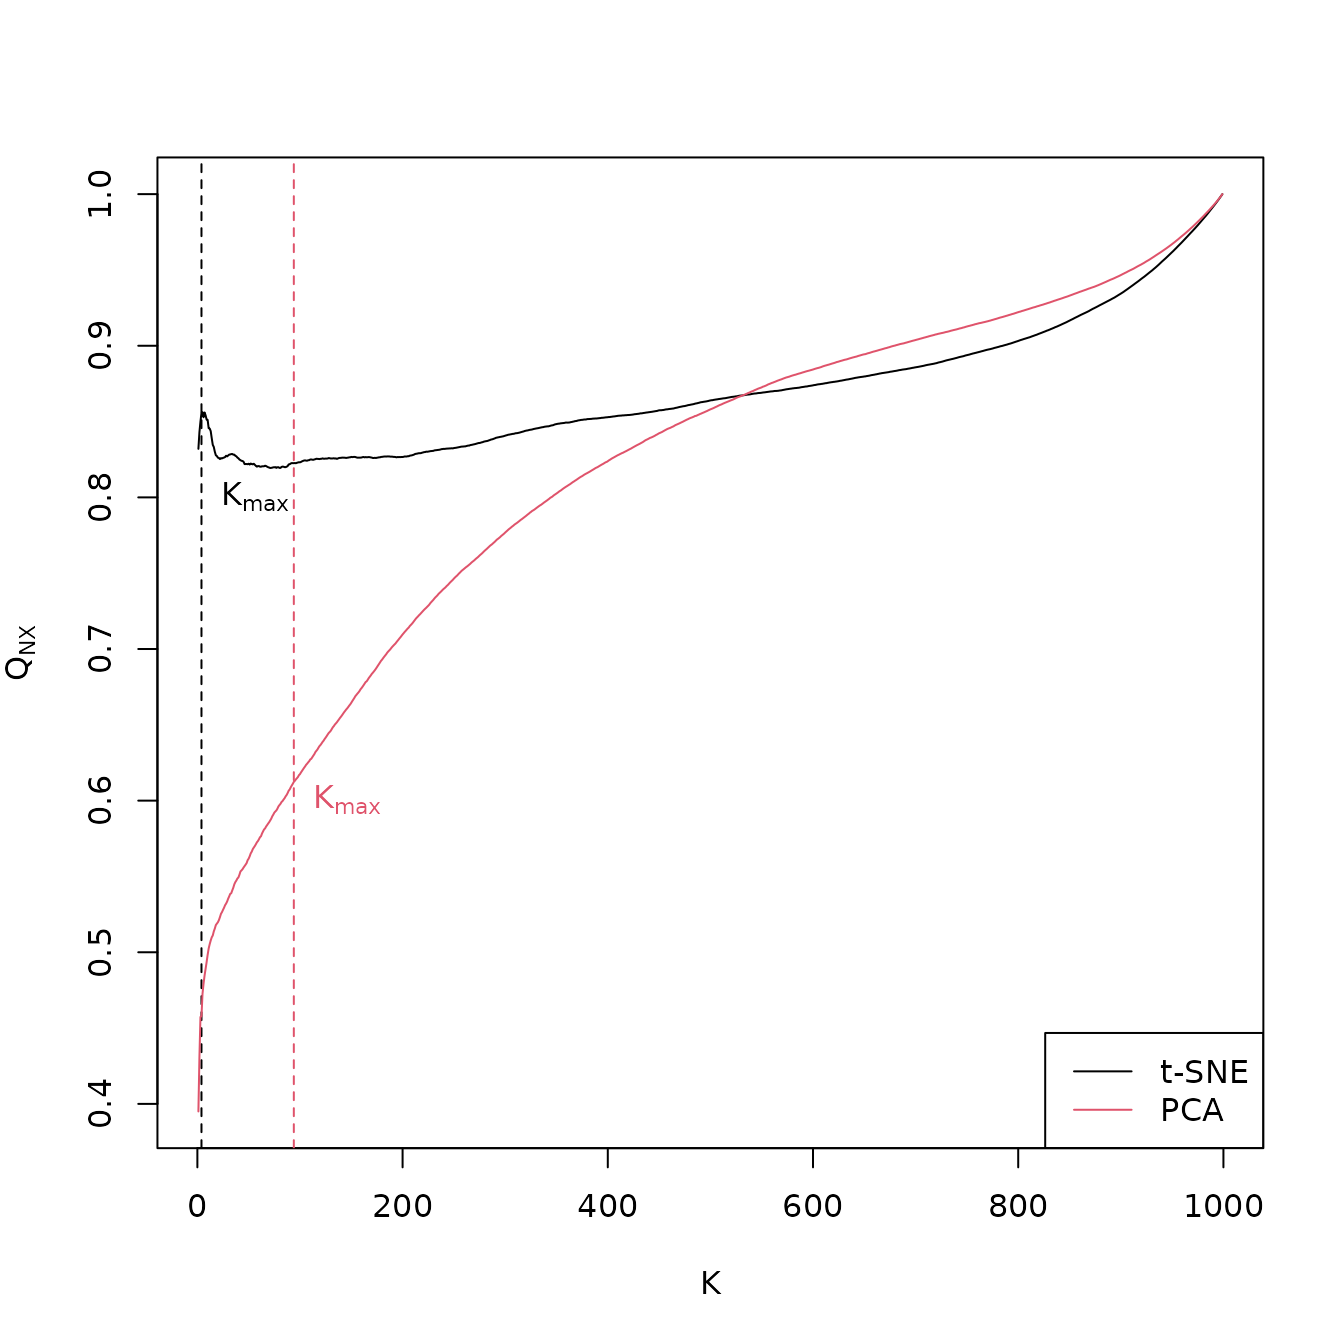
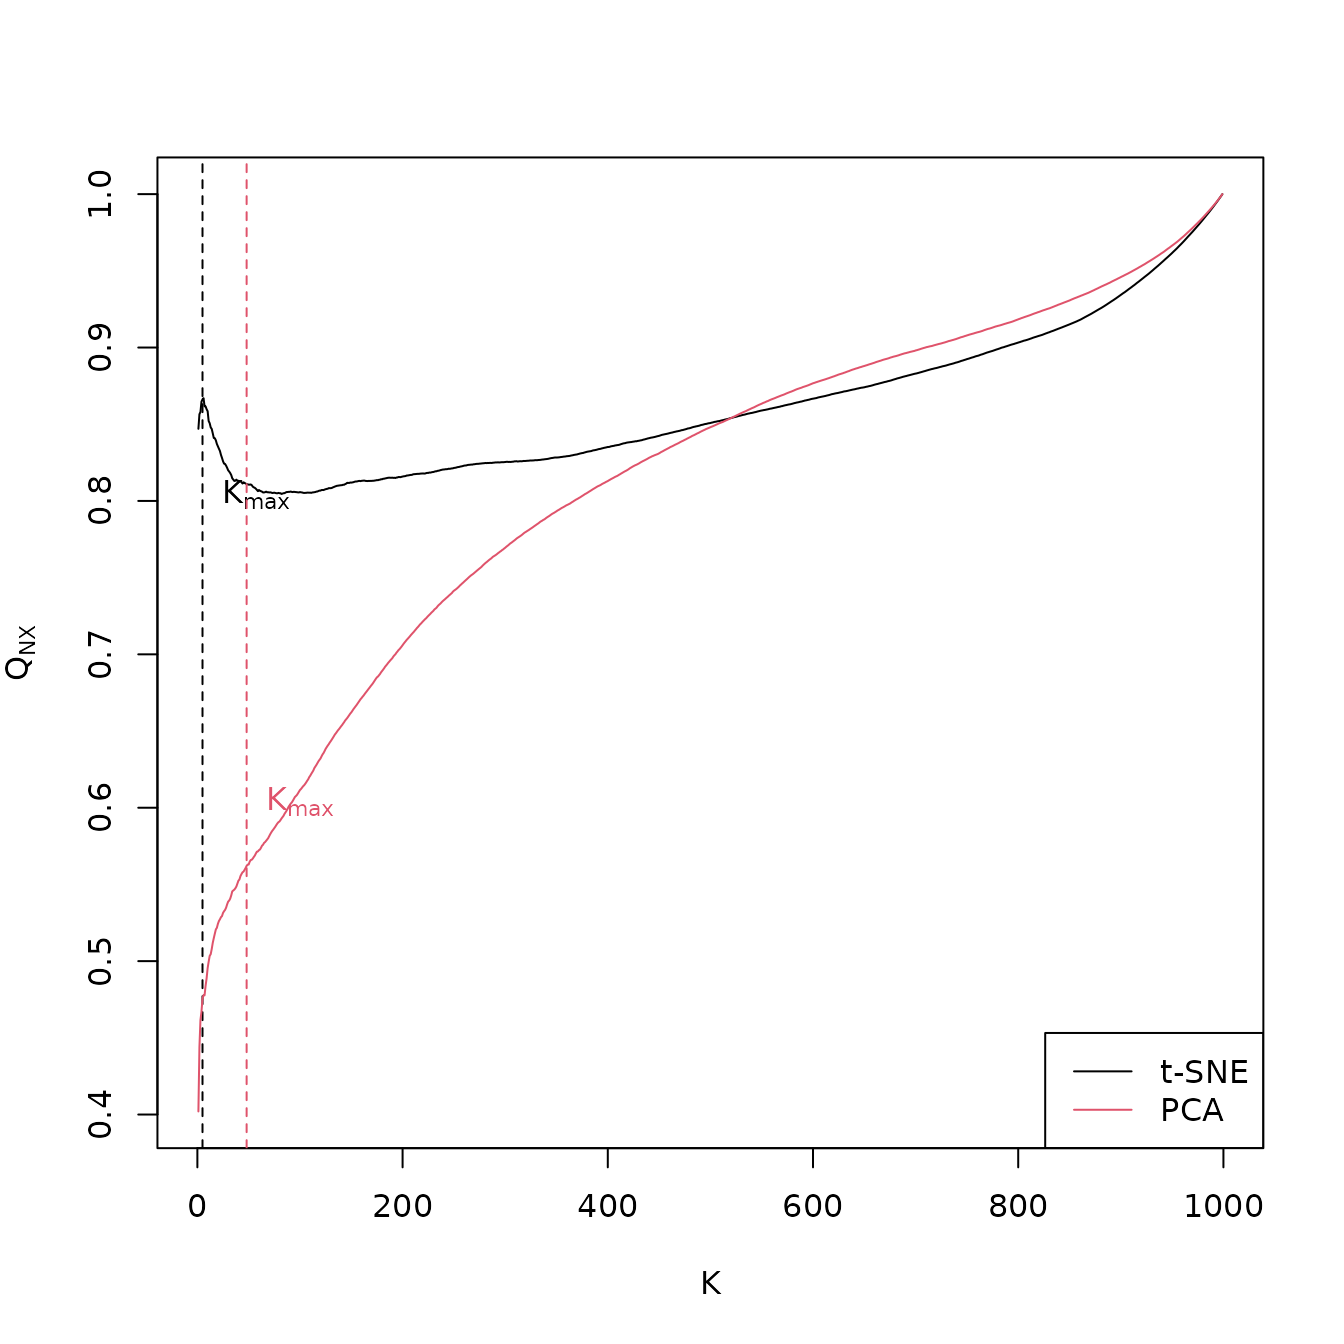
Deploying to gh-pages from @ gdkrmr/coRanking@527ea7ea73dabc86ea66ff928a8ee284bc65c30a 🚀

diff --git a/articles/coranking.html b/articles/coranking.html
@@ -162,17 +162,17 @@
 <li>
 <em>t-SNE</em>:
 <ul>
-<li><span class="math inline">\(K_\text{max} = 4\)</span></li>
-<li><span class="math inline">\(Q_\text{local} = 0.8451875\)</span></li>
-<li><span class="math inline">\(Q_\text{global} = 0.8715396\)</span></li>
+<li><span class="math inline">\(K_\text{max} = 5\)</span></li>
+<li><span class="math inline">\(Q_\text{local} = 0.85849\)</span></li>
+<li><span class="math inline">\(Q_\text{global} = 0.862841\)</span></li>
 </ul>
 </li>
 <li>
 <em>PCA</em>:
 <ul>
-<li><span class="math inline">\(K_\text{max} = 94\)</span></li>
-<li><span class="math inline">\(Q_\text{local} = 0.5527472\)</span></li>
-<li><span class="math inline">\(Q_\text{global} = 0.8468801\)</span></li>
+<li><span class="math inline">\(K_\text{max} = 48\)</span></li>
+<li><span class="math inline">\(Q_\text{local} = 0.5217655\)</span></li>
+<li><span class="math inline">\(Q_\text{global} = 0.8286299\)</span></li>
 </ul>
 </li>
 </ul>
